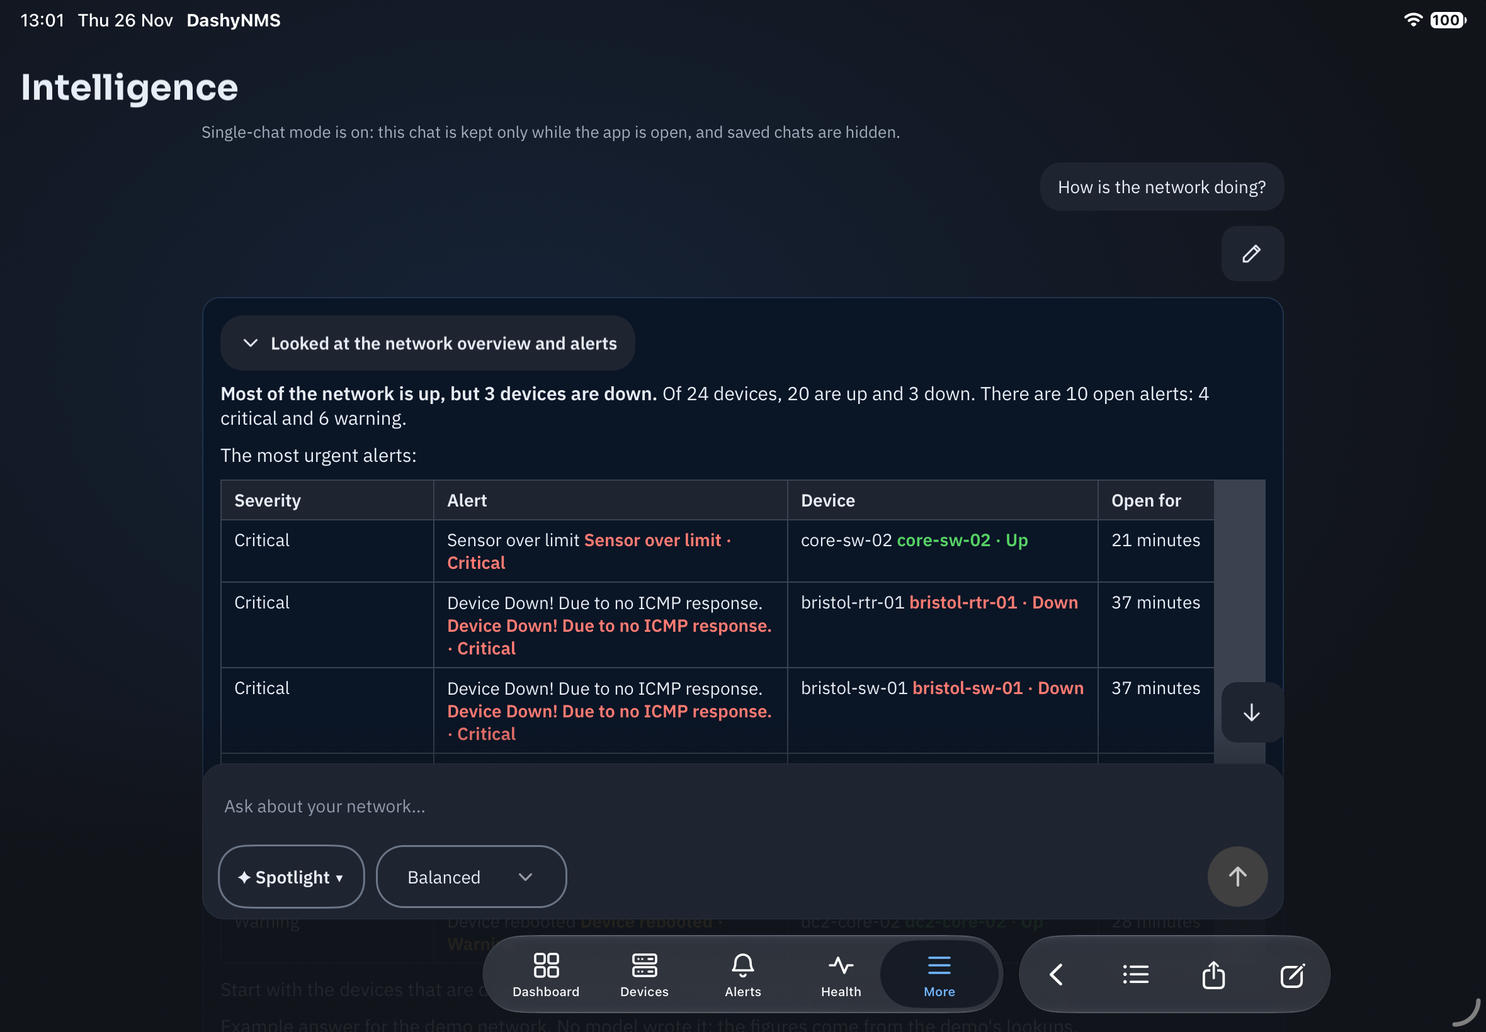
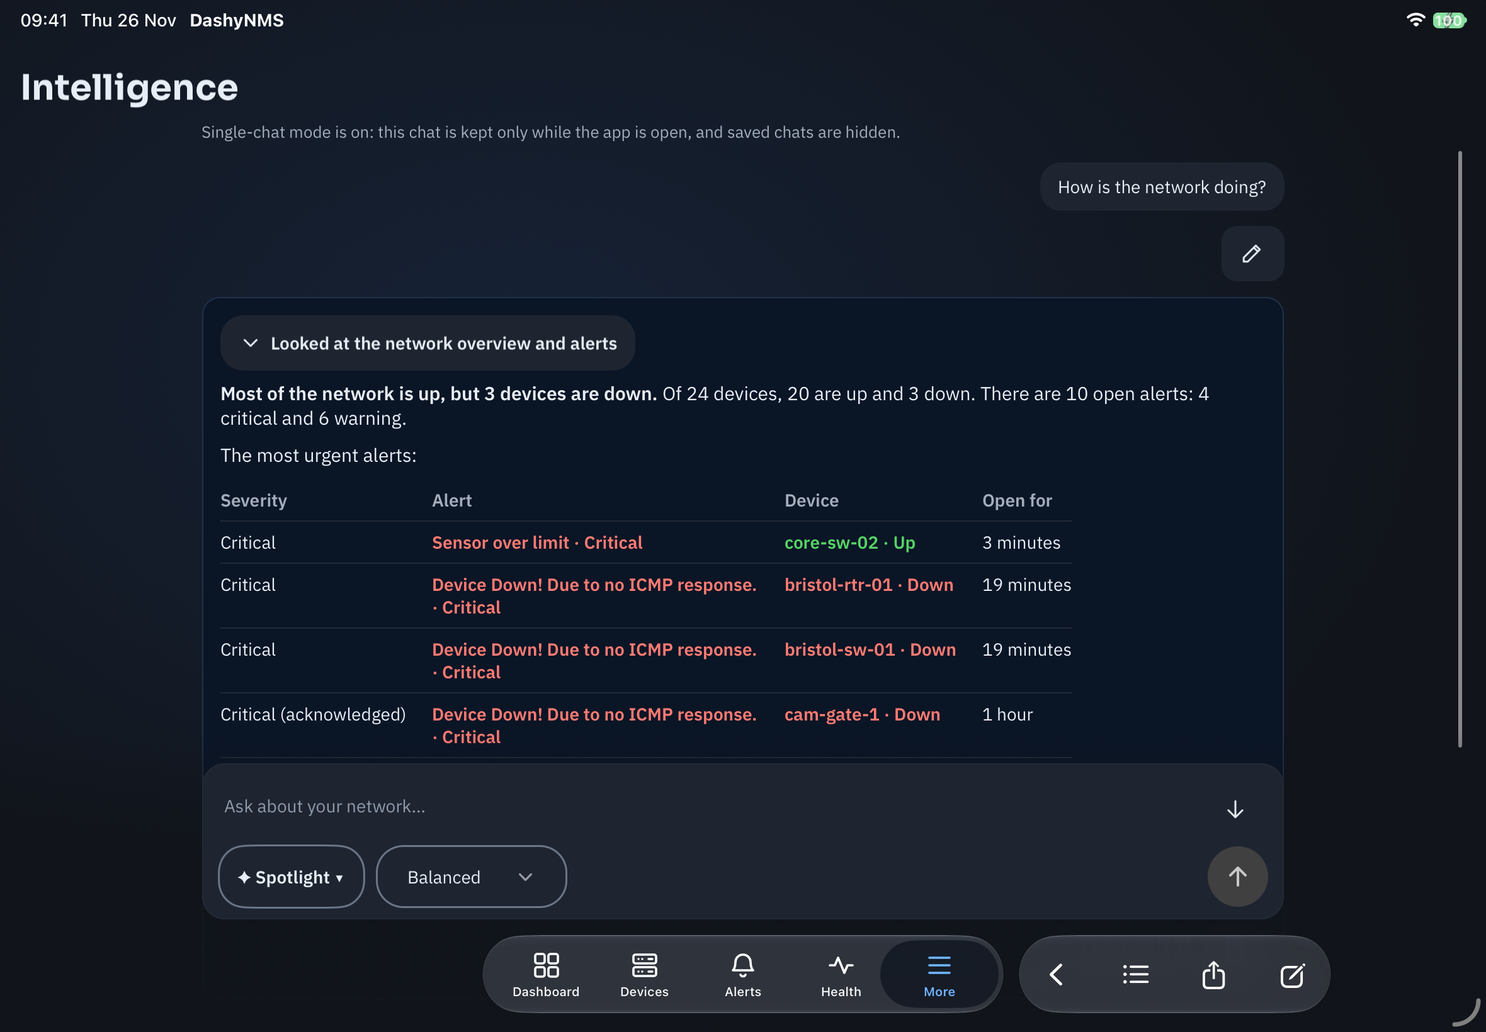
fix(intelligence): keep answer tables readable on narrow screens (#722)
Closes #701

## What changes

Intelligence displays verified device and alert names once per cell.
Wide answers keep aligned columns with dividers that end at the content
width. Narrow answers show labelled rows when the column headings can
identify each field. Other tables show a sideways-scroll hint. Jump to
latest sits next to the question field, clear of the answer and the
composer actions.

## Validation

- Ran the network overview and unreachable-device Demo Mode prompts on
iPhone 18 Pro, iPhone Duo and iPad (A16). Checked complete addresses and
locations, verified entity labels and selection, and confirmed Jump to
latest returns to the answer end.
- At Accessibility Large, checked a synthetic hostname and IPv6 address
that wrap and a table with blank headings whose last column is reachable
by swiping. The fixture was local to the simulator build.
- Ran Impeccable’s native review on the device captures. Kept the
existing answer card and used dividers between compact rows.
- Passed the iOS simulator build, widget build, 2,593 shared tests, 46
repository script tests, 11 map tests, repository policy, local security
checks, package verification and guide conversion.

## Simulator renders

| iPhone 18 Pro | iPad (A16) |
| --- | --- |
| <img
src="https://raw.githubusercontent.com/DashyNMS/mobile/cccfa954cda297355d754a7bfe71a6ba51d165e2/docs/assets/screenshots/iphone-18-pro/45-intelligence-unreachable-dark.png"
[…]

diff --git a/src/DashyNMS.Mobile/Controls/IntelligenceMarkdownView.cs b/src/DashyNMS.Mobile/Controls/IntelligenceMarkdownView.cs
@@ -1,6 +1,7 @@
 using DashyNMS.Mobile.Intelligence;
 using DesktopNMS.Core.Intelligence;
 using Microsoft.Maui.Controls.Shapes;
+using Microsoft.Maui.Layouts;
 
 namespace DashyNMS.Mobile.Controls;
 
@@ -9,7 +10,7 @@ namespace DashyNMS.Mobile.Controls;
 /// (#228). Text is always set as plain spans, so nothing in an answer is parsed as
 /// HTML or executed. Verified objects read as their name and status in text, with
 /// optional status colour; tapping one asks
-/// the host to open it. Tables scroll sideways rather than squeezing columns.
+/// the host to open it. Tables adapt to the width of the answer.
 /// Redraws only when the text, evidence or colour choice changes, and the page
 /// already coalesces streaming updates to ten a second.
 /// </summary>
@@ -169,26 +170,26 @@ public sealed class IntelligenceMarkdownView : VerticalStackLayout
     private View Table(MarkdownTableBlock table)
     {
         var columns = table.Columns;
-        var grid = new Grid { ColumnSpacing = 1, RowSpacing = 1, Padding = 1 };
-        grid.SetAppThemeColor(BackgroundColorProperty, Resource<Color>("StrokeLight"), Resource<Color>("ChipStrokeDark"));
+        var grid = new Grid { ColumnSpacing = 20, HorizontalOptions = LayoutOptions.Start };
+        var cells = new Label[table.Rows.Count, columns];
         for (var c = 0; c < columns; c++) grid.ColumnDefinitions.Add(new ColumnDefinition(GridLength.Auto));
         for (var r = 0; r < table.Rows.Count; r++)
         {
+            if (r > 0) AddTableDivider(grid, columns, 2 * r - 1);
             grid.RowDefinitions.Add(new RowDefinition(GridLength.Auto));
             for (var c = 0; c < columns; c++)
             {
-                var cell = Text(c < table.Rows[r].Count ? table.Rows[r][c] : [], 14, bold: r == 0);
+                var cell = Text(c < table.Rows[r].Count ? table.Rows[r][c] : [], 14, bold: r == 0, secondary: r == 0);
                 cell.MaximumWidthRequest = 260;
+                cell.Margin = new Thickness(0, 7);
                 cell.HorizontalTextAlignment = c < table.Alignments.Count ? table.Alignments[c] switch
                 {
                     MarkdownAlignment.Centre => TextAlignment.Center,
                     MarkdownAlignment.End => TextAlignment.End,
                     _ => TextAlignment.Start,
                 } : TextAlignment.Start;
-                var host = new ContentView { Content = cell, Padding = new Thickness(10, 6) };
-                if (r == 0) host.SetAppThemeColor(BackgroundColorProperty, Resource<Color>("SurfaceAltLight"), Resource<Color>("SurfaceAltDark"));
-                else host.SetAppThemeColor(BackgroundColorProperty, Color.FromArgb("#ECF3FC"), Color.FromArgb("#0A1526"));
-                grid.Add(host, c, r);
+                cells[r, c] = cell;
+                grid.Add(cell, c, 2 * r);
             }
         }
         var scroll = new ScrollView
@@ -196,8 +197,103 @@ public sealed class IntelligenceMarkdownView : VerticalStackLayout
             Orientation = ScrollOrientation.Horizontal, Content = grid, SafeAreaEdges = SafeAreaEdges.None,
             HorizontalScrollBarVisibility = ScrollBarVisibility.Default,
         };
-        SemanticProperties.SetDescription(scroll, $"Table, {table.Rows.Count} rows and {columns} columns. Scroll sideways for more.");
-        return scroll;
+        var hint = new Label { Text = "Scroll sideways to see all columns.", Style = Resource<Style>("Caption"), LineBreakMode = LineBreakMode.WordWrap };
+        return new ResponsiveTable(grid, cells, scroll, CompactTable(table), hint);
+    }
+
+    private static void AddTableDivider(Grid grid, int columns, int row)
+    {
+        grid.RowDefinitions.Add(new RowDefinition(GridLength.Auto));
+        var divider = Line(default);
+        grid.Add(divider, 0, row);
+        Grid.SetColumnSpan(divider, columns);
+    }
+
+    /// <summary>Use labelled rows only if each column has its own usable label.</summary>
+    private View? CompactTable(MarkdownTableBlock table)
+    {
+        var headers = table.Rows[0];
+        if (table.Rows.Count < 2 || headers.Count != table.Columns ||
+            headers.Any(header => header.Any(span => span is not { Reference: null, Link: null }))) return null;
+        var names = headers.Select(header => string.Concat(header.Select(span => span.Text)).Trim()).ToArray();
+        if (names.Any(string.IsNullOrWhiteSpace) || names.Distinct(StringComparer.OrdinalIgnoreCase).Count() != names.Length)
+            return null;
+
+        var stack = new VerticalStackLayout { Spacing = 8 };
+        foreach (var row in table.Rows.Skip(1))
+        {
+            if (stack.Children.Count > 0) stack.Children.Add(Line(default));
+            var fields = new VerticalStackLayout { Spacing = 4 };
+            for (var c = 0; c < names.Length; c++)
+            {
+                var spans = c < row.Count ? row[c] : [];
+                fields.Children.Add(Text(spans.Count > 0 ? spans : [new("—")], 14, prefix: names[c] + ": "));
+            }
+            stack.Children.Add(fields);
+        }
+        return stack;
+    }
+
+    /// <summary>Measures native text against the current card width, including changes in text size and window geometry.</summary>
+    private sealed class ResponsiveTable : Layout
+    {
+        private readonly Grid _grid;
+        private readonly Label[,] _cells;
+        private readonly ScrollView _scroll;
+        private readonly View? _compact;
+        private readonly Label _hint;
+
+        public ResponsiveTable(Grid grid, Label[,] cells, ScrollView scroll, View? compact, Label hint)
+        {
+            _grid = grid;
+            _cells = cells;
+            _scroll = scroll;
+            _compact = compact;
+            _hint = hint;
+            Children.Add(hint);
+            Children.Add(scroll);
+            if (compact is not null) Children.Add(compact);
+        }
+
+        protected override ILayoutManager CreateLayoutManager() => new TableLayoutManager(this);
+
+        private sealed class TableLayoutManager(ResponsiveTable table) : LayoutManager(table)
+        {
+            private double _hintHeight;
+
+            public override Size Measure(double widthConstraint, double heightConstraint)
+            {
+                var cells = table._cells;
+                var columns = cells.GetLength(1);
+                var naturalWidth = table._grid.ColumnSpacing * (columns - 1);
+                for (var c = 0; c < columns; c++)
+                {
+                    var columnWidth = 0d;
+                    // Measure the labels directly so a collapsed parent does not skip them.
+                    for (var r = 0; r < cells.GetLength(0); r++)
+                        columnWidth = Math.Max(columnWidth, ((IView)cells[r, c]).Measure(double.PositiveInfinity, double.PositiveInfinity).Width);
+                    naturalWidth += Math.Ceiling(columnWidth);
+                }
+
+                var fits = naturalWidth <= widthConstraint;
+                var showCompact = !fits && table._compact is not null;
+                if (table._compact is { } compact) compact.IsVisible = showCompact;
+                table._scroll.IsVisible = !showCompact;
+                table._hint.IsVisible = !fits && !showCompact;
+                _hintHeight = table._hint.IsVisible ? ((IView)table._hint).Measure(widthConstraint, heightConstraint).Height + 6 : 0;
+                var content = showCompact ? table._compact! : table._scroll;
+                var measured = ((IView)content).Measure(widthConstraint, heightConstraint);
+                return new Size(Math.Min(widthConstraint, measured.Width), measured.Height + _hintHeight);
+            }
+
+            public override Size ArrangeChildren(Rect bounds)
+            {
+                if (table._hint.IsVisible) ((IView)table._hint).Arrange(new Rect(bounds.X, bounds.Y, bounds.Width, _hintHeight - 6));
+                IView content = table._compact is { IsVisible: true } compact ? compact : table._scroll;
+                content.Arrange(new Rect(bounds.X, bounds.Y + _hintHeight, bounds.Width, Math.Max(0, bounds.Height - _hintHeight)));
+                return bounds.Size;
+            }
+        }
     }
 
     private View Code(string code)

diff --git a/src/DashyNMS.Mobile/Pages/IntelligencePage.cs b/src/DashyNMS.Mobile/Pages/IntelligencePage.cs
@@ -44,7 +44,7 @@ public sealed partial class IntelligencePage : ContentPage, IActivePage, IPrivat
     // Drawn over the native button, which keeps its semantics and disabled colours.
     private readonly Microsoft.Maui.Controls.Shapes.Path _askIcon = Glyph(SendIcon, 24);
     private readonly FootFade _fade = new();
-    private readonly Border _composer = new() { Padding = new Thickness(12, 8), StrokeThickness = 1, StrokeShape = new RoundRectangle { CornerRadius = 18 }, HorizontalOptions = LayoutOptions.Center };
+    private readonly Border _composer = new() { Padding = new Thickness(12, 8), StrokeThickness = 1, StrokeShape = new RoundRectangle { CornerRadius = 18 }, HorizontalOptions = LayoutOptions.Center, VerticalOptions = LayoutOptions.End };
     private readonly IconButton _new = new() { Icon = "M12 4V20 M4 12H20", Kind = IconButtonKind.Plain };
     private readonly IconButton _list = new() { Icon = "M9 6H20 M9 12H20 M9 18H20 M4 6H5 M4 12H5 M4 18H5", Kind = IconButtonKind.Plain };
     private readonly IDispatcherTimer _timer;
@@ -56,7 +56,6 @@ public sealed partial class IntelligencePage : ContentPage, IActivePage, IPrivat
     private readonly List<TurnCard> _cards = [];
     private long _chatRevision;
     private long _starterRevision = -1;
-    private readonly VerticalStackLayout _overlay = new() { Spacing = 8, VerticalOptions = LayoutOptions.End, HorizontalOptions = LayoutOptions.Center };
     private bool _showing;
     private bool _following = true;
     private bool _scrollPending;
@@ -155,7 +154,13 @@ public sealed partial class IntelligencePage : ContentPage, IActivePage, IPrivat
             () => _ = PickSpotlightAsync());
         var composer = new Grid { SafeAreaEdges = SafeAreaEdges.None, RowDefinitions = [new(GridLength.Auto), new(GridLength.Auto), new(GridLength.Auto)], RowSpacing = 4 };
         composer.Add(_spotlightControls, 0, 0);
-        composer.Add(_question, 0, 1);
+        // Keep Jump to latest clear of both the transcript and the composer controls.
+        _jump.MinimumHeightRequest = _jump.MinimumWidthRequest = 48;
+        _jump.VerticalOptions = LayoutOptions.Center;
+        var questionRow = new Grid { SafeAreaEdges = SafeAreaEdges.None, ColumnDefinitions = [new(GridLength.Star), new(GridLength.Auto)] };
+        questionRow.Add(_question, 0, 0);
+        questionRow.Add(_jump, 1, 0);
+        composer.Add(questionRow, 0, 1);
         var choices = new Grid { SafeAreaEdges = SafeAreaEdges.None, ColumnDefinitions = [new(GridLength.Star), new(GridLength.Auto)], ColumnSpacing = 8 };
         var chipRow = new HorizontalStackLayout { Spacing = 8, VerticalOptions = LayoutOptions.Center };
         chipRow.Children.Add(_spotlightButton);
@@ -176,7 +181,6 @@ public sealed partial class IntelligencePage : ContentPage, IActivePage, IPrivat
         choices.Add(askHost, 1, 0);
         composer.Add(choices, 0, 2);
         _composer.Content = composer;
-        _composer.Margin = new Thickness(0, 8, 0, 0);
         var body = new Grid { SafeAreaEdges = SafeAreaEdges.None, RowDefinitions = [new(GridLength.Auto), new(GridLength.Star), new(GridLength.Auto)] };
         body.Add(_notice, 0, 0);
         // The page owns the backdrop so it also paints behind safe-area gutters,
@@ -193,17 +197,11 @@ public sealed partial class IntelligencePage : ContentPage, IActivePage, IPrivat
         // Messages passing behind the composer and tab bar fade out rather than
         // running into the composer's edge. Decorative; it never takes touches.
         body.Add(_fade, 0, 1);
-        // Keep the arrow slot measured when hidden, so following does not change the footer.
-        _jump.MinimumHeightRequest = _jump.MinimumWidthRequest = 48;
-        var jumpSlot = new Grid { HeightRequest = 48, SafeAreaEdges = SafeAreaEdges.None };
-        jumpSlot.Children.Add(_jump);
-        _overlay.Children.Add(jumpSlot);
-        _overlay.Children.Add(_composer);
-        body.Add(_overlay, 0, 1);
+        body.Add(_composer, 0, 1);
         // The placement helper measures the keyboard/glass foot once; the page
         // applies it to the overlay, so the transcript runs to the bottom of the
         // screen and messages scroll behind the composer and the tab bar.
-        _overlay.SizeChanged += (_, _) => ReserveFoot();
+        _composer.SizeChanged += (_, _) => ReserveFoot();
         var setup = new SetupLayout { Header = _header, Body = body };
         Content = setup;
         _placement = new SetupPageLayout(this, setup, _header, _scroll) { ShowActions = ShowActions, PlaceFoot = PlaceFoot };
@@ -372,15 +370,15 @@ public sealed partial class IntelligencePage : ContentPage, IActivePage, IPrivat
         if (_lane is { LaneLeft: { } left, LaneRight: { } right })
         {
             var laneWidth = Math.Min(860, right - left);
-            _overlay.HorizontalOptions = LayoutOptions.Start;
-            _overlay.Margin = new Thickness(Math.Max(0, left - _columnLeft + (right - left - laneWidth) / 2), 0, 0, _lane.Gap);
-            _composer.WidthRequest = _overlay.WidthRequest = laneWidth;
+            _composer.HorizontalOptions = LayoutOptions.Start;
+            _composer.Margin = new Thickness(Math.Max(0, left - _columnLeft + (right - left - laneWidth) / 2), 0, 0, _lane.Gap);
+            _composer.WidthRequest = laneWidth;
         }
         else
         {
-            _overlay.HorizontalOptions = LayoutOptions.Center;
-            _overlay.Margin = new Thickness(0, 0, 0, _lane.Gap);
-            _composer.WidthRequest = _overlay.WidthRequest = width;
+            _composer.HorizontalOptions = LayoutOptions.Center;
+            _composer.Margin = new Thickness(0, 0, 0, _lane.Gap);
+            _composer.WidthRequest = width;
         }
         foreach (var card in _cards) card.Place(width);
         ReserveFoot();
@@ -404,16 +402,15 @@ public sealed partial class IntelligencePage : ContentPage, IActivePage, IPrivat
     /// <summary>
     /// Leaves room under the last message for the composer and whatever covers
     /// the page's foot (tab bar, glass or keyboard), whichever reaches higher.
-    /// The hidden Jump to latest slot keeps this stable while following.
     /// </summary>
     private void ReserveFoot()
     {
-        var reserve = Math.Max(Math.Max(0, _overlay.Height) + _lane.Gap, _lane.Clearance) + 16;
+        var covered = Math.Max(Math.Max(0, _composer.Height) + _lane.Gap, _lane.Clearance);
+        var reserve = covered + 16;
         // A docked keyboard in a short landscape window can cover more than the
         // viewport; keep the last message's end inside it rather than above it.
         if (_scroll.Height > 0) reserve = Math.Min(reserve, Math.Max(0, _scroll.Height - 64));
-        // From a little above the composer (not the Jump to latest slot) to the screen's base.
-        _fade.SetCoveredHeight(Math.Max(Math.Max(0, _composer.Height) + _lane.Gap, _lane.Clearance));
+        _fade.SetCoveredHeight(covered);
         var padding = new Thickness(0, 12, 0, reserve);
         if (_transcript.Padding == padding) return;
         _transcript.Padding = padding;

diff --git a/src/DashyNMS.Mobile.Shared/Intelligence/IntelligenceMarkdown.cs b/src/DashyNMS.Mobile.Shared/Intelligence/IntelligenceMarkdown.cs
@@ -291,7 +291,27 @@ public static partial class IntelligenceMarkdown
     }
 
     private static IReadOnlyList<IReadOnlyList<MarkdownSpan>> Row(string row, IReadOnlyList<IntelligenceInlineReference> evidence) =>
-        Cells(row).Take(MaxTableColumns).Select(cell => Inlines(cell, evidence)).ToList();
+        Cells(row).Take(MaxTableColumns).Select(cell => RemoveRepeatedTableLabels(Inlines(cell, evidence))).ToList();
+
+    /// <summary>A marker already displays its name. Remove standalone copies at the cell edges, preserving prose and links.</summary>
+    private static IReadOnlyList<MarkdownSpan> RemoveRepeatedTableLabels(IReadOnlyList<MarkdownSpan> spans)
+    {
+        var first = 0;
+        while (first < spans.Count && IsPlain(spans[first])) first++;
+        if (first == spans.Count) return spans;
+
+        var last = spans.Count - 1;
+        while (last > first && IsPlain(spans[last])) last--;
+        var start = first > 0 && IsRepeatedName(spans.Take(first), spans[first]) ? first : 0;
+        var end = last < spans.Count - 1 && IsRepeatedName(spans.Skip(last + 1), spans[last]) ? last + 1 : spans.Count;
+        return start == 0 && end == spans.Count ? spans : spans.Skip(start).Take(end - start).ToArray();
+
+        static bool IsPlain(MarkdownSpan span) => span is { Link: null, Reference: null };
+
+        static bool IsRepeatedName(IEnumerable<MarkdownSpan> text, MarkdownSpan marker) =>
+            marker.Reference is { Object.IsValid: true, Name.Length: > 0 } reference &&
+            string.Equals(string.Concat(text.Select(span => span.Text)).Trim(), reference.Name, StringComparison.Ordinal);
+    }
 
     private static List<string> Cells(string row)
     {

diff --git a/tests/DashyNMS.Mobile.Shared.Tests/IntelligenceAnswerTests.cs b/tests/DashyNMS.Mobile.Shared.Tests/IntelligenceAnswerTests.cs
@@ -51,6 +51,25 @@ public sealed class IntelligenceAnswerTests
         Assert.Equal(new[] { MarkdownAlignment.Start, MarkdownAlignment.Centre, MarkdownAlignment.End }, table.Alignments);
     }
 
+    [Theory]
+    [InlineData("edge-router-a [[device:12]]", "edge-router-a · Down")]
+    [InlineData("**edge-router-a** [[device:12]] on standby", "edge-router-a · Down on standby")]
+    [InlineData("[[alert:7]] `Port down`", "Port down · Critical")]
+    [InlineData("Check edge-router-a [[device:12]]", "Check edge-router-a edge-router-a · Down")]
+    [InlineData("[edge-router-a](https://example.org/device) [[device:12]]", "edge-router-a edge-router-a · Down")]
+    [InlineData("edge-router-a [[device:12]] and [[alert:7]]", "edge-router-a · Down and Port down · Critical")]
+    [InlineData("Device 99 [[device:99]]", "Device 99 Device 99")]
+    public void Table_cells_remove_only_standalone_copies_of_verified_names(string source, string displayed)
+    {
+        var blocks = IntelligenceMarkdown.Parse($"| Item |\n| --- |\n| {source} |\n\n{source}", Evidence);
+        var table = Assert.IsType<MarkdownTableBlock>(blocks[0]);
+        var cell = Assert.Single(table.Rows[1]);
+        Assert.Equal(displayed, string.Concat(cell.Select(span => span.Display)));
+        Assert.Equal(IntelligenceMarkdown.Inlines(source, Evidence).Where(span => span.Reference is not null),
+            cell.Where(span => span.Reference is not null));
+        Assert.Equal(IntelligenceMarkdown.Inlines(source, Evidence), Assert.IsType<MarkdownTextBlock>(blocks[1]).Spans);
+    }
+
     [Fact]
     public void Linked_objects_are_verified_navigable_and_listed_once()
     {

diff --git a/docs/DESIGN.md b/docs/DESIGN.md
@@ -305,7 +305,7 @@ Pages that use a bespoke top bar (`DashboardPage`, `CustomiseDashboardPage`, `In
 - Centre transcript, notice and composer in one column capped at 860pt.
 - Right-align question bubbles (`min(560pt, 85%)`); left-align answers with no repeated heading.
 - Overlay the composer over the transcript via `SetupPageLayout.PlaceFoot` and `ChatComposerPlacement.Resolve`: level with a side pill's base, beside a bottom pill when a 360pt lane exists, above a bottom pill otherwise, and always above a docked keyboard.
-- Set transcript footer clearance to `16pt + max(composerOverlay, coveredFoot)`, capped at `max(0, viewportHeight - 64pt)` so the last message stays reachable with the keyboard up. Keep the Jump to latest slot measured while hidden so the footer height stays stable.
+- Set transcript footer clearance to `16pt + max(composerOverlay, coveredFoot)`, capped at `max(0, viewportHeight - 64pt)` so the last message stays reachable with the keyboard up. Show Jump to latest beside the question field so it stays clear of the answer text.
 - Let the composer field grow from 48 to 140pt. Style every composer control (Spotlight, remove, Switch to previous chat and answer detail) as an outlined chip at least 48pt high with a mandatory icon or chevron and a themed border meeting at least 3:1 contrast against the composer surface in both themes (never `SecondaryButton` or `StrokeDark` on `SurfaceAltDark`). Share one 48pt circle for Send and Stop.
 - Show a notice only when an event actually changed this user's content, separated from the transcript by 12pt. With no turns, rest starter questions at the top with a 20pt lead rather than scrolling to the bottom.
 

diff --git a/docs/guide/how-to/intelligence.md b/docs/guide/how-to/intelligence.md
@@ -26,6 +26,8 @@ Intelligence isn't available on Android, or on older iPhones and iPads.
 
 Graphs fill the width of the answer card. Tap a graph to open a larger preview.
 
+On narrow screens, tables with clear column headings show each row as labelled fields. If a table asks you to scroll sideways, swipe it to see the other columns. **Jump to latest** appears beside the question field when you scroll back through a chat.
+
 Be specific: name the device, site or port. The on-device model holds less at once than the ones on a computer, so it looks up fewer things for each question. Ask about one part of the network at a time, and start a **New chat** when you change subject.
 
 Answers can be wrong, and lookups can use data that's a few minutes old. Check LibreNMS before acting. When something couldn't be read, the answer says so.

diff --git a/docs/releases/2.0.0.md b/docs/releases/2.0.0.md
@@ -33,6 +33,7 @@ DashyNMS Mobile 2.0 brings Intelligence, alert groups for LibreNMS 26.10, offlin
 ## Fixed
 
 - **Intelligence graphs:** Attached graphs fill the answer card on iPhone and iPad (#700).
+- **Intelligence tables:** Tables fit narrow screens, linked devices and alerts show a single label, and Jump to latest stays clear of answers (#701).
 - **Schedule maintenance.** On iOS, the form scrolls above **Schedule**, keeping Notes and the discard message clear of the button and navigation controls (#698).
 - **MAC addresses on LibreNMS 26.11.** A device's MAC table shows each address's VLAN number again, for newer servers and older ones.
 - **Sensors with no limits.** A custom sensor with no limits shows its reading without a colour on the dashboard, in the sensor picker and on the widget, rather than green for OK.

diff --git a/docs/assets/screenshots/README.md b/docs/assets/screenshots/README.md
@@ -3,6 +3,7 @@
 Demo Mode screenshots of DashyNMS Mobile captured from `main` at commit `b512b27` (`v2.0.0-edge.7`). Every screen uses the built-in example network (`*.example.net` and RFC 5737 test addresses). Sign-in screens show only the empty `nms.example.com` placeholder.
 
 The iPhone 18 Pro and iPad Schedule maintenance screenshots were retaken for #698.
+The iPhone 18 Pro unreachable-devices capture and the iPad overview and unreachable-devices captures were retaken for #701.
 
 ## Device folders
 
